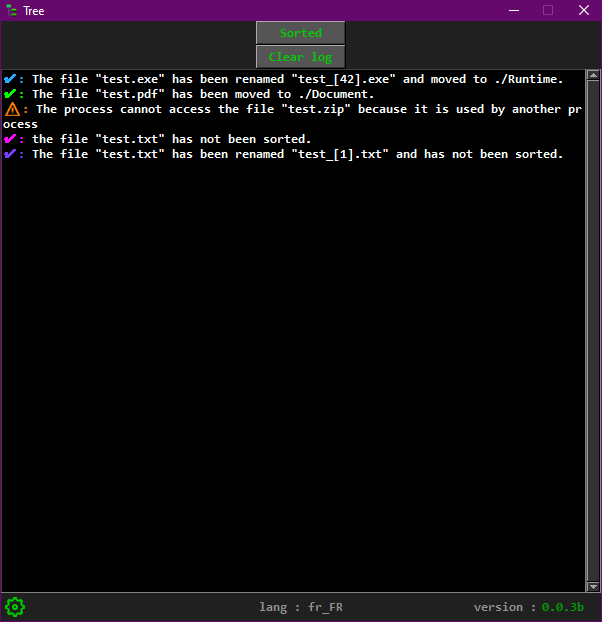
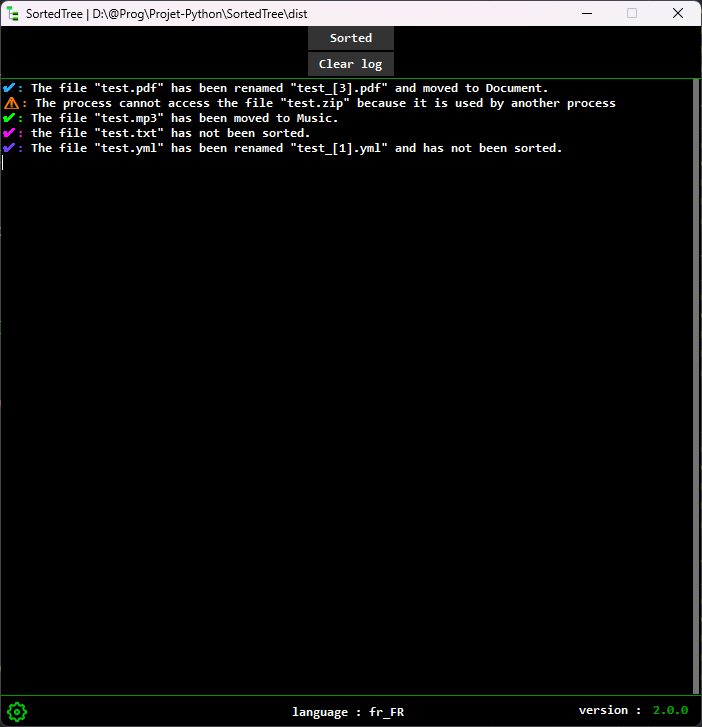
Fix Bug Add Disable Enable Rule

Changed region(s): [[0.0, 0.0, 1.0, 1.0], [0.6578, 0.2444, 0.9269, 0.2749], [0.5083, 0.2444, 0.6279, 0.2749]]

diff --git a/sortedtree.py b/sortedtree.py
@@ -141,7 +141,7 @@ def duplicate(file: str, path: str) -> str:
     return newName+fileExt
 
 def notDev():
-    main_menu_w.console1.printTerminal("This feature is not developed", color=["Purple"])
+    main_menu_w.console1.printLastLine("This feature is not developed", color=["Purple"])
 
 
 # function Sorting
@@ -157,122 +157,31 @@ def sortMain():
 
     for name_profile in conf.CONFIG['config_sort']:
 
-        if not conf.CONFIG['config_sort'][name_profile]['disable']:
+        disable = conf.CONFIG['config_sort'][name_profile]['disable']
 
-            for rule in conf.CONFIG['config_sort'][name_profile]['rule']:
-                config_path: str = conf.CONFIG['config_sort'][name_profile]['fullPath']
-                pathStatic: bool = conf.CONFIG['config_sort'][name_profile]['pathStatic']
+        for rule in conf.CONFIG['config_sort'][name_profile]['rule']:
+            config_path: str = conf.CONFIG['config_sort'][name_profile]['fullPath']
+            pathStatic: bool = conf.CONFIG['config_sort'][name_profile]['pathStatic']
 
+            parent_path = path_dir_exe
 
-                parent_path = path_dir_exe
+            if not os.path.exists(f"{path_dir_exe}/{config_path}"):
+                os.makedirs(f"{path_dir_exe}/{config_path}", exist_ok=True)
 
-                if not os.path.exists(f"{path_dir_exe}/{config_path}"):
-                    os.makedirs(f"{path_dir_exe}/{config_path}", exist_ok=True)
+            if rule == "":
+                break
 
-                if rule == "":
-                    break
-
-                sort(rule, notSort_userConfig, check, config_path, parent_path, pathStatic)
-
-                # for file in pathlib.Path(path_dir_exe).glob(rule):
-
-                #     file_name = ntpath.basename(file)
-                #     file_futur_path = f"{path_dir_exe}/{config_path}/{file_name}"
-
-                #     log.debug(file)
-                #     log.debug(file_name)
-                #     log.debug(file_futur_path)
-
-                #     duplica = False
-                #     sort = False
-                #     permission = False
-                #     new = "new"
-                #     err = [False, "none"]
-
-                #     if str(file_name) not in notSort_userConfig and str(file_name) not in notSortList and str(file_name) != exe_file:
-
-                #         check.append(str(file_name))
-
-                #         if not os.path.exists(file_futur_path):
-
-                #             try:
-                #                 if os.path.isfile(file_name):
-
-                #                     shutil.move(str(file_name), file_futur_path)
-                #                     sort = True
-                #                 else:
-                #                     break
-
-                #             # For permission related errors
-                #             except PermissionError:
-                #                 permission = True
-
-                #             # For other errors
-                #             except OSError as error:
-                #                 err = [True, error]
-
-                #         else:
-                #             try:
-                #                 if os.path.isfile(file_name):
-                #                     new = duplicate(str(file_name), f"{path_dir_exe}/{config_path}")
-                #                     shutil.move(src = file_name, dst = f"{path_dir_exe}/{config_path}/{str(new)}")
-                #                     sort, duplica = True, True
-                #                 else:
-                #                     break
-
-                #             except PermissionError:
-                #                 permission = True
-                                
-                #             # For other errors
-                #             except OSError as error:
-                #                 err = [True, error]
-
-                #     if sort and not duplica:
-                #         main_menu_w.console1.printTerminal("✔: ", langage.lang['OK']['sorted'].format(file=str(file_name), path=config_path), color=["Green", None])
-
-                #     if sort and duplica:
-                #         main_menu_w.console1.printTerminal("✔: ", langage.lang['OK']['sorted_double'].format(file=str(file_name), new_name=new, path=config_path), color=["Blue", None])
-
-                #     if permission:
-                #         main_menu_w.console1.printTerminal("⚠: ", langage.lang['ERROR']['permission_file'].format(file=str(file_name)), color=["Orange", None])
-
-                #     if err[0]:
-                #         main_menu_w.console1.printTerminal("❌: ", str(err[1]), color=["Red", None])
-                #         log.error("❌: " + str(err[1]))
+            sort(rule, notSort_userConfig, check, config_path, parent_path, pathStatic, disable)
 
     if conf.CONFIG['unsorted'] == True :
         if not os.path.exists(f"{path_dir_exe}/#Unsorted"):
             os.mkdir(f"{path_dir_exe}/#Unsorted")
 
         sort_unsorted(notSort_userConfig, check)
-        
-        # for file_path in pathlib.Path(path_dir_exe).glob('*.*'):
-
-        #     file_name = ntpath.basename(file_path)
-
-        #     if str(file_name) not in notSort_userConfig and str(file_name) not in notSortList and str(file_name) not in check and str(file_name) != exe_file:
-
-        #         try:
-        #             os.rename(str(file_name), f"{path_dir_exe}/#Unsorted/{str(file_name)}")
-        #             main_menu_w.console1.printTerminal("✔: ", langage.lang['OK']['unsorted'].format(file=str(file_name)), color=["Purple", None])
-
-        #         # For permission related errors
-        #         except PermissionError:
-        #             main_menu_w.console1.printTerminal("⚠: ", langage.lang['ERROR']['permission_file'].format(file=str(file_name)), color=["Orange", None])
-
-        #         # For File Exists errors
-        #         except FileExistsError:
-        #             new = duplicate(str(file_name), f"{path_dir_exe}/#Unsorted")
-        #             main_menu_w.console1.printTerminal("✔: ", langage.lang['OK']['sorted_double_unsorted'].format(file=str(file_name), new_name=new), color=["Purple2", None])
-
-        #         # For other errors
-        #         except OSError as error:
-        #             main_menu_w.console1.printTerminal("❌: ", str(error), color=["Red", None])
-        #             log.error("❌: " + str(error))
 
     main_menu_w.button_tree.enable()
 
-def sort(rule: str, notSort_userConfig: list, check: list, config_path: str, search_path: str, static_path: bool):
+def sort(rule: str, notSort_userConfig: list, check: list, config_path: str, search_path: str, static_path: bool, disable: bool):
 
     # log.debug(rule)
 
@@ -301,6 +210,9 @@ def sort(rule: str, notSort_userConfig: list, check: list, config_path: str, sea
         if str(file_name) not in notSort_userConfig and str(file_name) not in notSortList and str(file_name) != exe_file:
 
             check.append(str(file_name))
+
+            if not disable:
+                return
 
             if not os.path.exists(file_futur_path):
 
@@ -337,16 +249,16 @@ def sort(rule: str, notSort_userConfig: list, check: list, config_path: str, sea
                     err = [True, error]
 
         if sort and not duplica:
-            main_menu_w.console1.printTerminal("✔: ", langage.lang['OK']['sorted'].format(file=str(file_name), path=config_path), color=["Green", None])
+            main_menu_w.console1.printLastLine("✔: ", langage.lang['OK']['sorted'].format(file=str(file_name), path=config_path), color=["Green", None])
 
         if sort and duplica:
-            main_menu_w.console1.printTerminal("✔: ", langage.lang['OK']['sorted_double'].format(file=str(file_name), new_name=new, path=config_path), color=["Blue", None])
+            main_menu_w.console1.printLastLine("✔: ", langage.lang['OK']['sorted_double'].format(file=str(file_name), new_name=new, path=config_path), color=["Blue", None])
 
         if permission:
-            main_menu_w.console1.printTerminal("⚠: ", langage.lang['ERROR']['permission_file'].format(file=str(file_name)), color=["Orange", None])
+            main_menu_w.console1.printLastLine("⚠: ", langage.lang['ERROR']['permission_file'].format(file=str(file_name)), color=["Orange", None])
 
         if err[0]:
-            main_menu_w.console1.printTerminal("❌: ", str(err[1]), color=["Red", None])
+            main_menu_w.console1.printLastLine("❌: ", str(err[1]), color=["Red", None])
             log.error("❌: " + str(err[1]))
 
 def sort_unsorted(notSort_userConfig, check):
@@ -354,24 +266,27 @@ def sort_unsorted(notSort_userConfig, check):
 
         file_name = ntpath.basename(file_path)
 
+        log.debug(check)
+
         if str(file_name) not in notSort_userConfig and str(file_name) not in notSortList and str(file_name) not in check and str(file_name) != exe_file:
 
             try:
                 os.rename(str(file_name), f"{path_dir_exe}/#Unsorted/{str(file_name)}")
-                main_menu_w.console1.printTerminal("✔: ", langage.lang['OK']['unsorted'].format(file=str(file_name)), color=["Purple", None])
+                main_menu_w.console1.printLastLine("✔: ", langage.lang['OK']['unsorted'].format(file=str(file_name)), color=["Purple", None])
 
             # For permission related errors
             except PermissionError:
-                main_menu_w.console1.printTerminal("⚠: ", langage.lang['ERROR']['permission_file'].format(file=str(file_name)), color=["Orange", None])
+                main_menu_w.console1.printLastLine("⚠: ", langage.lang['ERROR']['permission_file'].format(file=str(file_name)), color=["Orange", None])
 
             # For File Exists errors
             except FileExistsError:
                 new = duplicate(str(file_name), f"{path_dir_exe}/#Unsorted")
-                main_menu_w.console1.printTerminal("✔: ", langage.lang['OK']['sorted_double_unsorted'].format(file=str(file_name), new_name=new), color=["Purple2", None])
+                shutil.move(src = str(file_name), dst = f"{path_dir_exe}/#Unsorted/{new}")
+                main_menu_w.console1.printLastLine("✔: ", langage.lang['OK']['sorted_double_unsorted'].format(file=str(file_name), new_name=new), color=["Purple2", None])
 
             # For other errors
             except OSError as error:
-                main_menu_w.console1.printTerminal("❌: ", str(error), color=["Red", None])
+                main_menu_w.console1.printLastLine("❌: ", str(error), color=["Red", None])
                 log.error("❌: " + str(error))
 
 
@@ -409,7 +324,7 @@ param_d = {
 }
 
 main_frame = ManagerWidgets_up(master=window, asset_folder=f"{exe_path}/page", parameters_list=[langage, conf, log], parameters_dict=param_d, width=700, height=670)
-main_frame.showWidget("menu_edit_settings")
+main_frame.showWidget("menu_sort")
 main_frame.gridPosSize(0, 0, sticky=(E, W, S, N)).show()
 
 main_menu_w: menu_sort = main_frame.getClassWidget("menu_sort")
@@ -418,7 +333,7 @@ menu_option_w: menu_option = main_frame.getClassWidget("menu_option")
 menu_option_w.button_moovToRoot.configure(command=moveToRoot)
 
 footer = Frame_up(master=window, width=700, height=30)
-# footer.propagate(False)
+footer.propagate(False)
 footer.gridPosSize(1, 0, sticky=(S)).show()
 # footer.columnconfigure(3, weight=1)
 # footer.rowconfigure(0, weight=1)

diff --git a/page/menu_edit_settings.py b/page/menu_edit_settings.py
@@ -30,13 +30,14 @@ class menu_edit_settings(Frame_up):
         # Use 'self' in your widget
         Frame_up.__init__(self, master=master, width=kw["width"], height=kw["height"])
         self.gridPosSize(row=0, column=0, sticky=(E, W, S, N))
+        self.grid_propagate(False)
 
         self.frameButton = Frame_up(self)
         self.frameButton.gridPosSize(row=2, column=0, sticky=(E, W, S, N)).show()
 
         self.frameBox = Frame_up(self, width=700)
         self.frameBox.gridPosSize(row=3, column=0, sticky=(E, W, S, N)).show()
-        self.frameBox.propagate(False)
+        # self.frameBox.propagate(False)
         
         self.treeView = Treeview_up(self, scroll=SCROLL_Y, iid=True, child=True, show="tree headings", width=700, height=400)
         self.treeView.bind("<ButtonRelease-1>", self.selected)
@@ -78,6 +79,14 @@ class menu_edit_settings(Frame_up):
         self.edit_button = Button_up(self.frameButton, text=self.langs.lang['UI']['EDIT_MENU']['button_edit'], width=10, command=self.editMenu)
         self.edit_button.gridPosSize(column=1, row=0, padx=(5, 0)).show().disable()
 
+        self.onOffRule_button = Toggle_Button_up(self.frameButton, width=12)
+        self.onOffRule_button.set_toggle_function(func1=self.onOffRule, func2=self.onOffRule)
+        self.onOffRule_button.custom_toggle((
+                                        self.langs.lang['UI']['EDIT_MENU']['button_onOff_rule'][1], 
+                                        self.langs.lang['UI']['EDIT_MENU']['button_onOff_rule'][0]
+                                    ), ("fggreen.TButton", "fgred.TButton"))
+        self.onOffRule_button.gridPosSize(column=6, row=0).show().disable()
+
         add_button = Button_up(self.frameButton, text=self.langs.lang['UI']['EDIT_MENU']['button_add'], width=10, command=self.addMenu)
         add_button.gridPosSize(column=0, row=0).show()
 
@@ -102,7 +111,7 @@ class menu_edit_settings(Frame_up):
         self.frame_return.placePosSize(350, 570, 120, 80, anchor="center").show()
         self.frame_return.columnconfigure(0, weight=1)
         self.frame_return.rowconfigure(2, weight=1)
-        self.frame_return.propagate(True)
+        self.frame_return.grid_propagate(False)
 
         self.button_saveAndReturn = Button_up(self.frame_return, text=self.langs.lang['UI']['EDIT_MENU']['button_return_save'], command=self.saveDataInTree)
         self.button_saveAndReturn.gridPosSize(column=0, row=1, sticky=(E, W, S, N), pady=(3,0)).show()
@@ -110,8 +119,8 @@ class menu_edit_settings(Frame_up):
         self.button_return = Button_up(self.frame_return, text=self.langs.lang['UI']['EDIT_MENU']['button_return'], command=lambda: self.manager_class.showWidget("menu_option"))
         self.button_return.gridPosSize(column=0, row=2, sticky=(E, W, N), pady=(3,0)).show()
 
-        # self.label_error_edit = Label_up(self.frameBox, text="test")
-        # self.label_error_edit.gridPosSize(column=0, row=3, padx=(5, 0), pady=(50, 0)).show()
+        self.label_error_edit = Label_up(self.frameBox, text="")
+        self.label_error_edit.gridPosSize(column=0, row=3, padx=(5, 0), pady=(50, 0)).show()
 
         # TopLevel
 
@@ -191,6 +200,7 @@ class menu_edit_settings(Frame_up):
             self.unselect_button.disable()
             self.move_up.disable()
             self.move_down.disable()
+            self.onOffRule_button.disable()
             self.treeView.tree.selection_remove(self.treeView.tree.selection()[0])
         except:
             print("not select")
@@ -271,11 +281,32 @@ class menu_edit_settings(Frame_up):
 
     def selected(self, event):
         if self.treeView.getSelectedElement():
+
+            tags = self.treeView.getItemSelectedElemnt("tags")
+            if tags == None:
+                self.onOffRule_button.set_status(True, True)
+            elif tags[0] == "Disable":
+                self.onOffRule_button.set_status(False, True)
+
+
             self.edit_button.enable()
             self.remove.enable()
             self.unselect_button.enable()
             self.move_up.enable()
             self.move_down.enable()
+            self.onOffRule_button.enable()
+
+    def onOffRule(self):
+        # print(self.treeView.getItemSelectedElemnt("tags"))
+
+        tags = self.treeView.getItemSelectedElemnt("tags")
+        if tags == None:
+            self.treeView.editSelectedElement(tags="Disable")
+        elif tags[0] == "Disable":
+            self.treeView.editSelectedElement(tags="")
+            # self.treeView.update()
+
+
 
     def saveDataInTree(self):
 

diff --git a/func/conf.py b/func/conf.py
@@ -66,7 +66,7 @@ class ConfigTree():
                 "pathStatic": False,
             },
         },
-        "version_config_file": 1.0,
+        "version_config_file": "2.0",
         "search_folder": [],
         "unsorted": False,
         "doNotSort": [],
